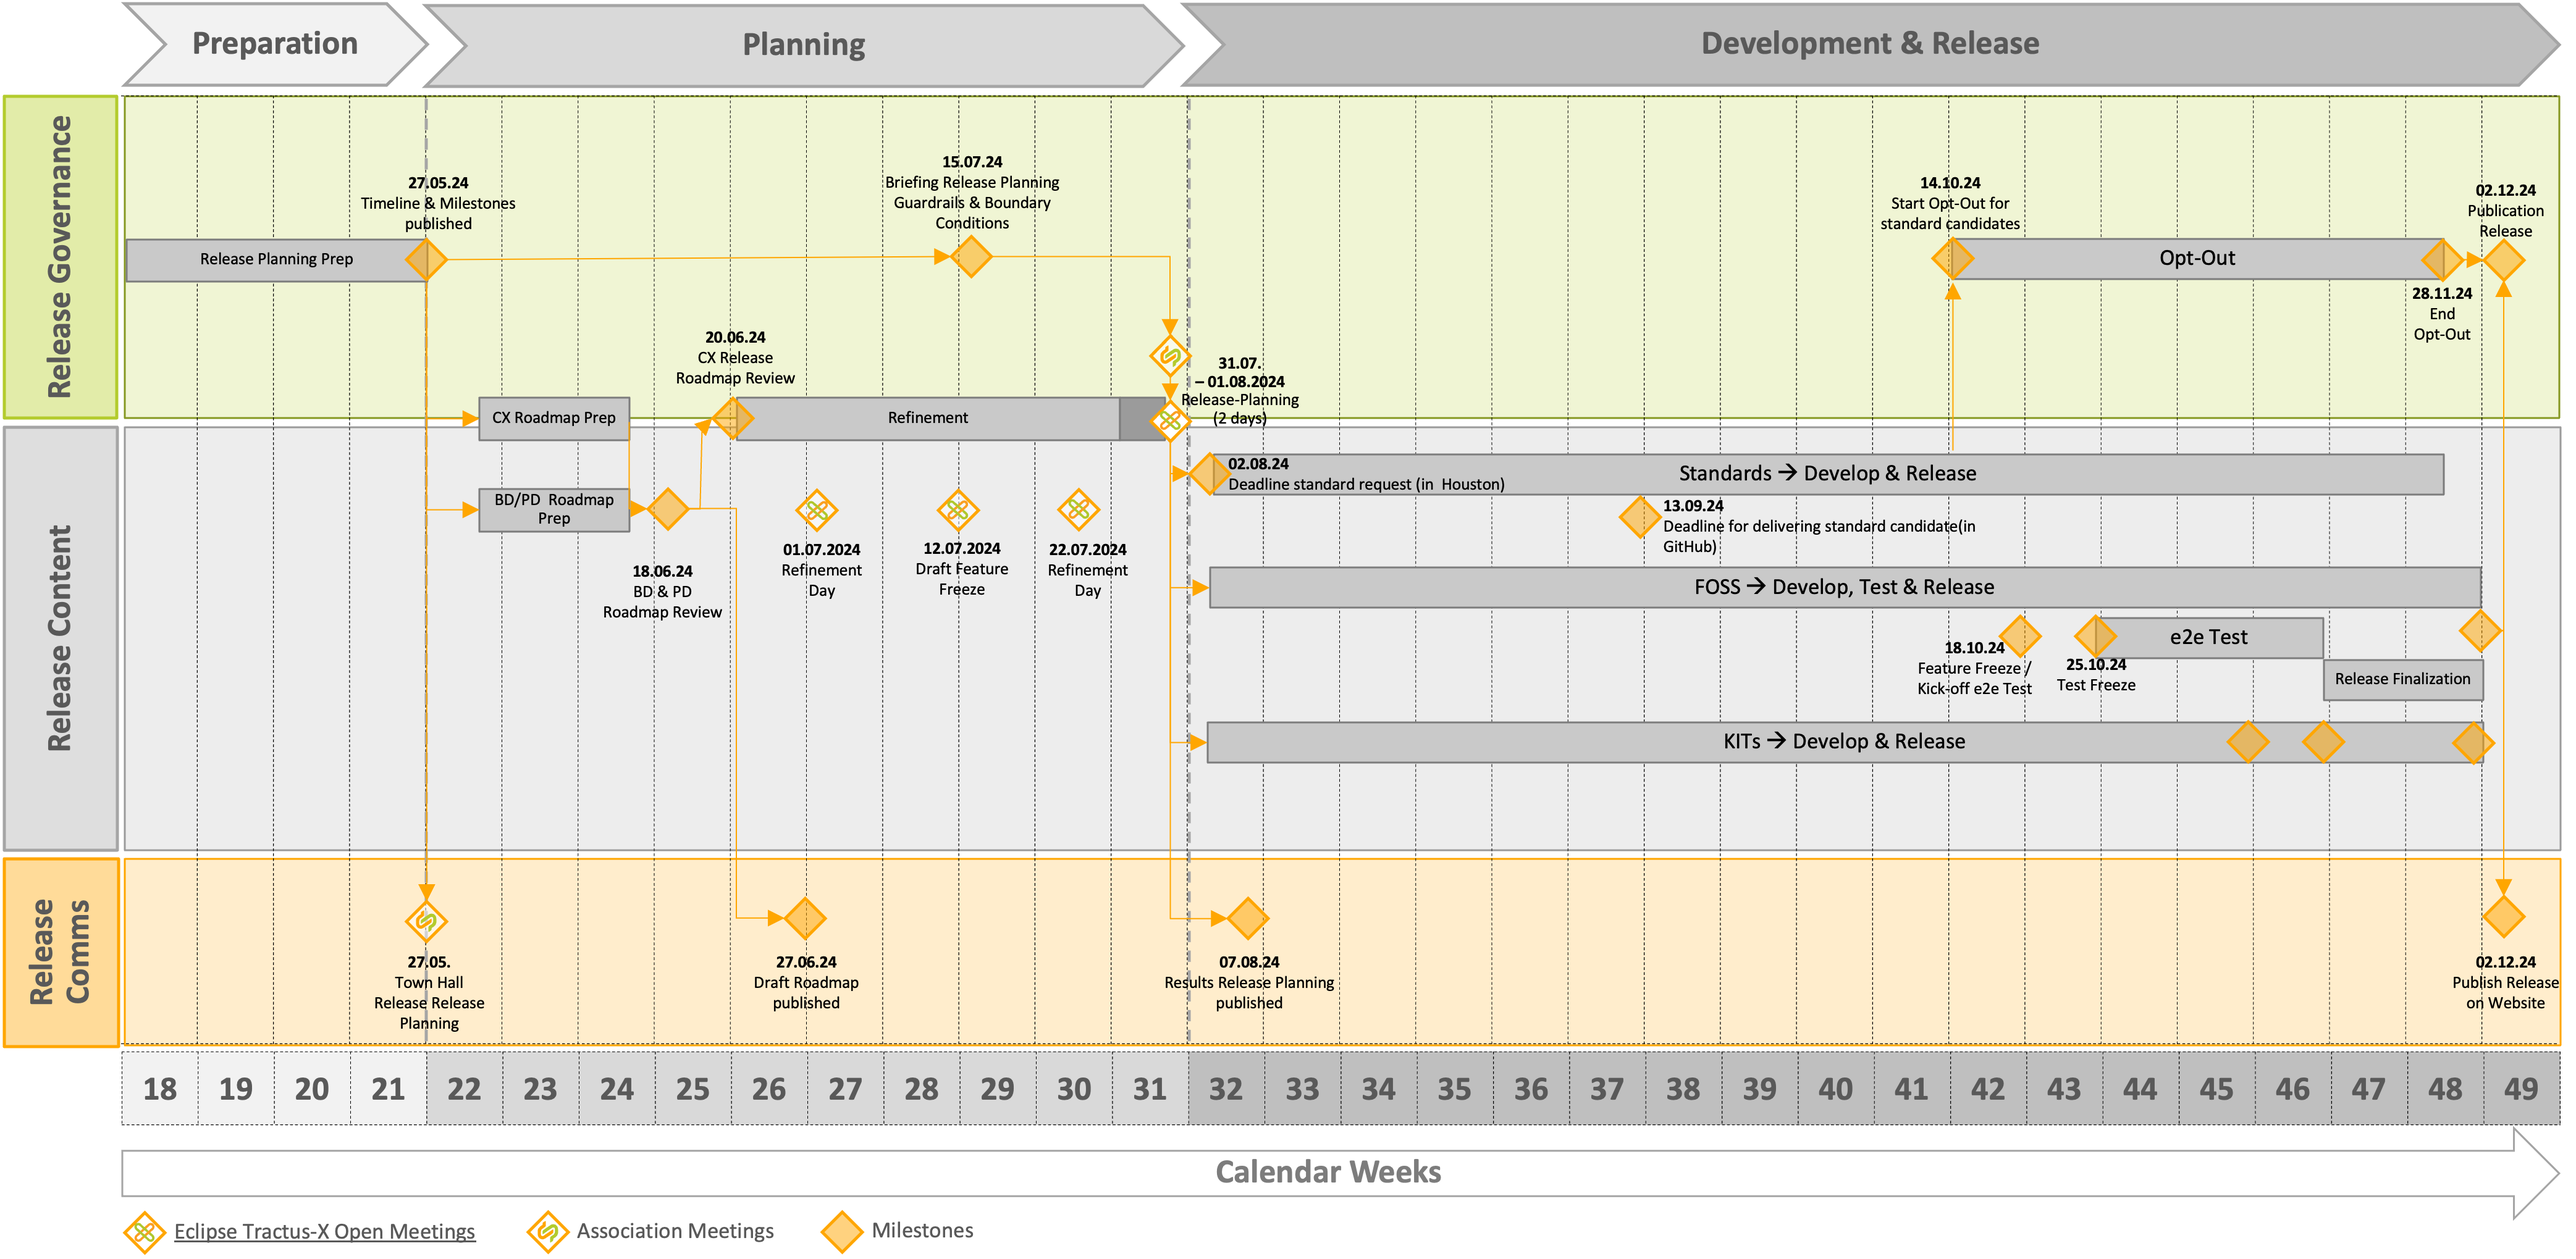
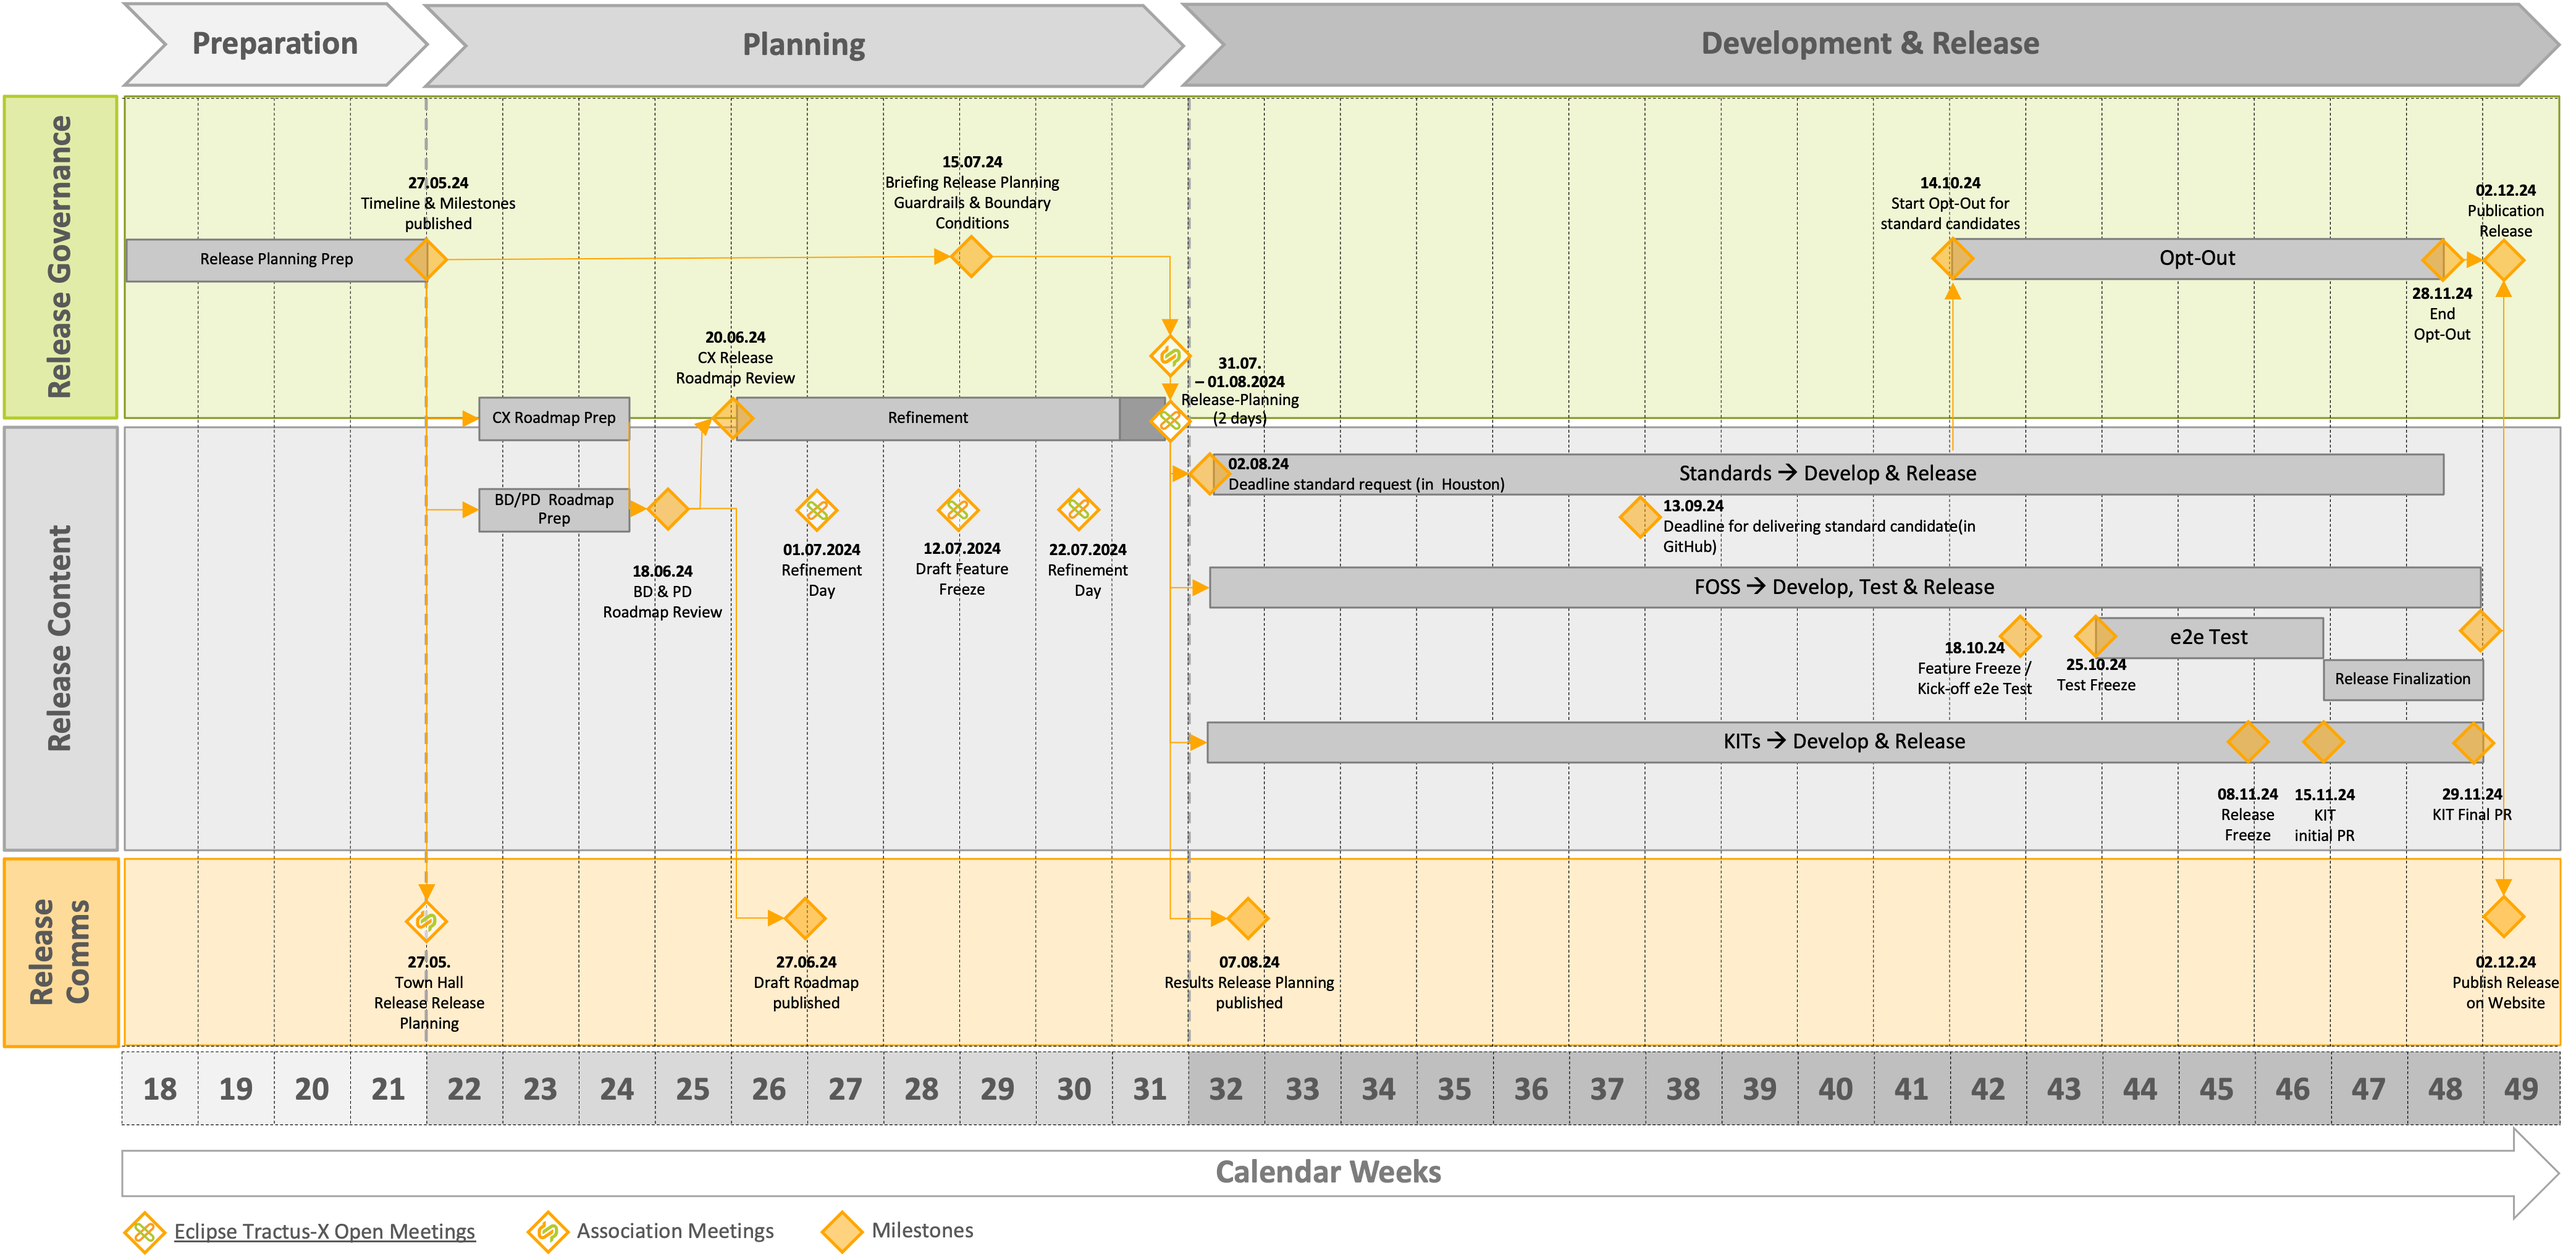
Add and update timeline. Add zoom

Changed region(s): [[0.8417, 0.6179, 0.9041, 0.6797], [0.9353, 0.6179, 0.9664, 0.6488]]

diff --git a/src/pages/timelines.md b/src/pages/timelines.md
@@ -6,7 +6,8 @@ Please have a look at [Release management](/release-management), to get more inf
 
 ## Overview of further upcoming releases
 
-![Overall timeline for Releases from 24.12 to 25.12 ](@site/static/img/cx-timeline-overview.png)
+[![Overall timeline for Releases from 24.12 to 25.12](@site/static/img/cx-timeline-overview.png)](@site/static/img/cx-timeline-overview.png)
+*Overall timeline for Releases from 24.12 to 25.12*
 
 ## Overview of Catena-X and Eclipse Tractus Release Schedules
 
@@ -16,8 +17,10 @@ Milestones featuring the Catena-X logo indicate closed meetings, which are organ
 
 ## Catena-X Io, incl. Eclipse Tractus-X Release 24.12 & 25.03
 
-![Timeline for Release 24.12](@site/static/img/cx-timeline-24.12.png)  
+[![Timeline for Release 24.12](@site/static/img/cx-timeline-24.12.png)](@site/static/img/cx-timeline-24.12.png)
 *Timeline for Release 24.12*
 
-![Timeline for Release 25.03](@site//static/img/cx-timeline-25.03.png)
+[![Timeline for Release 25.03](@site//static/img/cx-timeline-25.03.png)](@site//static/img/cx-timeline-25.03.png)
 *Timeline for Release 25.03*
+
+[![Timeline for Release 25.06](@site//static/img/cx-timeline-25.06.png)](@site//static/img/cx-timeline-25.06.png)

diff --git a/src/pages/release-management.md b/src/pages/release-management.md
@@ -4,7 +4,7 @@ Effective management of versions and changes for Catena-X standards, KITs and op
 
 ## Support Dates
 
-![Support Dates](/img/support-dates.jpg)
+[![Support Dates](/img/support-dates.jpg)](/img/support-dates.jpg)
 
 ## Consistency and Compatibility
 
@@ -38,7 +38,7 @@ Based on the first experiences in live operation, the release management for the
 
 ## Rationale for Changes
 
-![Release Timeline](/img/release-schedule.png)
+[![Release Timeline](/img/release-schedule.png)](/img/release-schedule.png)
 
 These changes allow all stakeholders to take advantage of quality-assured dependency and compatibility management, and better predictability for the operational deployment and certification phase.
 
